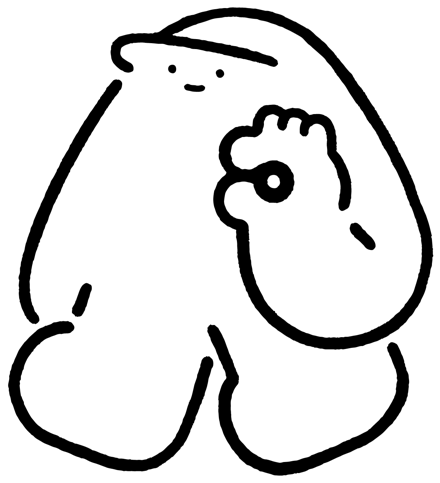
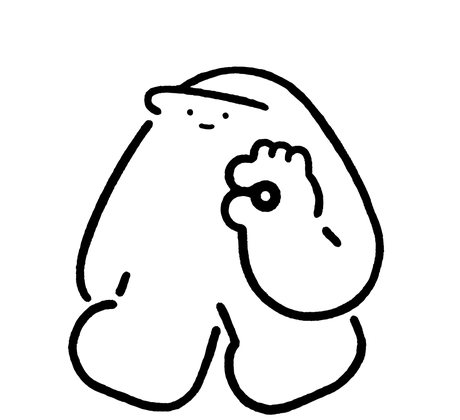
Mascot: normalize both poses to equal body size
The OK (default) and thumbs-up (hover) characters filled their frames by
different amounts (the raised arm shrank the like pose's body), so at
equal width they looked different sizes. Re-render both onto a shared
460x420 canvas with the body scaled to a common width, feet-aligned and
centered, then display centered over the button. Both poses now render at
identical size and stay put through the crossfade.

Changed region(s): [[0.0, 0.0, 1.0, 0.9905]]

diff --git a/index.html b/index.html
@@ -441,15 +441,16 @@ body { font-family: var(--font-zh); background: var(--grey-4); color: var(--blac
   position: fixed; bottom: 18px; right: 18px; z-index: 1500;
 }
 .fp-wrap .fp-mascot {
-  position: absolute; z-index: 1; right: 18px; bottom: 100%;
-  width: 120px; height: auto; margin-bottom: -18px;
+  position: absolute; z-index: 1; left: 50%; bottom: 100%;
+  transform: translateX(-50%);
+  width: 170px; height: auto; margin-bottom: -22px;
   pointer-events: none; user-select: none;
   filter: drop-shadow(0 3px 3px rgba(0,0,0,0.16));
   transition: opacity .2s ease, transform .2s ease;
 }
 .fp-wrap .fp-mascot-like { opacity: 0; }
 .fp-wrap:hover .fp-mascot-default { opacity: 0; }
-.fp-wrap:hover .fp-mascot-like { opacity: 1; transform: translateY(-4px); }
+.fp-wrap:hover .fp-mascot-like { opacity: 1; transform: translateX(-50%) translateY(-4px); }
 .float-petition {
   position: relative; z-index: 2; display: block;
   background: var(--lime); color: var(--black);
@@ -474,7 +475,7 @@ body { font-family: var(--font-zh); background: var(--grey-4); color: var(--blac
   .demands-grid { grid-template-columns: 1fr; gap: 12px; }
   .fp-wrap { bottom: 12px; right: 12px; }
   .float-petition { padding: 10px 14px; font-size: 12px; }
-  .fp-wrap .fp-mascot { width: 96px; margin-bottom: -14px; }
+  .fp-wrap .fp-mascot { width: 134px; margin-bottom: -18px; }
 }
 
 .section { margin-bottom: 48px; }

diff --git a/vision.html b/vision.html
@@ -219,15 +219,16 @@ body.lang-en .t-en { display: inline; }
   position: fixed; bottom: 18px; right: 18px; z-index: 1500;
 }
 .fp-wrap .fp-mascot {
-  position: absolute; z-index: 1; right: 18px; bottom: 100%;
-  width: 120px; height: auto; margin-bottom: -18px;
+  position: absolute; z-index: 1; left: 50%; bottom: 100%;
+  transform: translateX(-50%);
+  width: 170px; height: auto; margin-bottom: -22px;
   pointer-events: none; user-select: none;
   filter: drop-shadow(0 3px 3px rgba(0,0,0,0.16));
   transition: opacity .2s ease, transform .2s ease;
 }
 .fp-wrap .fp-mascot-like { opacity: 0; }
 .fp-wrap:hover .fp-mascot-default { opacity: 0; }
-.fp-wrap:hover .fp-mascot-like { opacity: 1; transform: translateY(-4px); }
+.fp-wrap:hover .fp-mascot-like { opacity: 1; transform: translateX(-50%) translateY(-4px); }
 .float-petition {
   position: relative; z-index: 2; display: block;
   background: var(--lime); color: var(--black);
@@ -272,7 +273,7 @@ body.lang-en .t-en { display: inline; }
   .demands-grid { grid-template-columns: 1fr; gap: 12px; }
   .fp-wrap { bottom: 12px; right: 12px; }
   .float-petition { padding: 10px 14px; font-size: 12px; }
-  .fp-wrap .fp-mascot { width: 96px; margin-bottom: -14px; }
+  .fp-wrap .fp-mascot { width: 134px; margin-bottom: -18px; }
   .cf-wrap { padding: 28px 22px; }
 }
 </style>

diff --git a/city.html b/city.html
@@ -119,15 +119,16 @@ body {
   position: fixed; bottom: 18px; right: 18px; z-index: 1500;
 }
 .fp-wrap .fp-mascot {
-  position: absolute; z-index: 1; right: 18px; bottom: 100%;
-  width: 120px; height: auto; margin-bottom: -18px;
+  position: absolute; z-index: 1; left: 50%; bottom: 100%;
+  transform: translateX(-50%);
+  width: 170px; height: auto; margin-bottom: -22px;
   pointer-events: none; user-select: none;
   filter: drop-shadow(0 3px 3px rgba(0,0,0,0.16));
   transition: opacity .2s ease, transform .2s ease;
 }
 .fp-wrap .fp-mascot-like { opacity: 0; }
 .fp-wrap:hover .fp-mascot-default { opacity: 0; }
-.fp-wrap:hover .fp-mascot-like { opacity: 1; transform: translateY(-4px); }
+.fp-wrap:hover .fp-mascot-like { opacity: 1; transform: translateX(-50%) translateY(-4px); }
 .float-petition {
   position: relative; z-index: 2; display: block;
   background: var(--lime); color: var(--black);
@@ -142,7 +143,7 @@ body {
 @media (max-width: 600px) {
   .fp-wrap { bottom: 12px; right: 12px; }
   .float-petition { padding: 10px 14px; font-size: 12px; }
-  .fp-wrap .fp-mascot { width: 96px; margin-bottom: -14px; }
+  .fp-wrap .fp-mascot { width: 134px; margin-bottom: -18px; }
 }
 
 /* ── Section titles ── */
